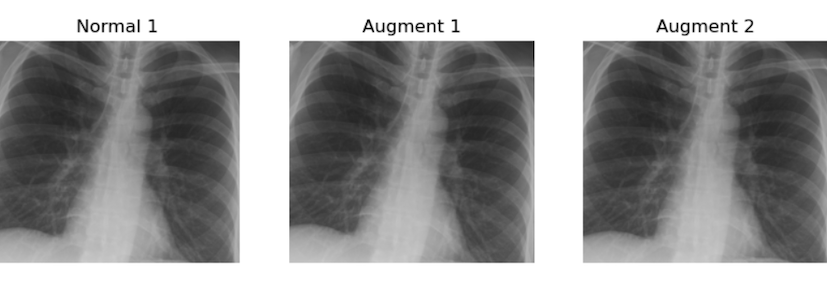
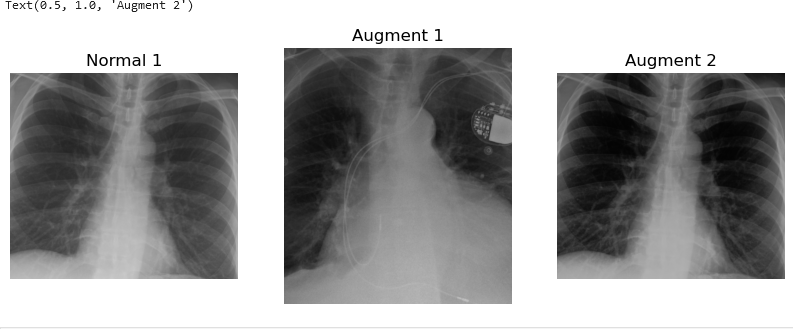
update les

diff --git a/episodes/preparing_for_machine_learning.md b/episodes/preparing_for_machine_learning.md
@@ -166,9 +166,9 @@ All of the following may pose potential problems:
 
 ## Challenge: Prepare the images for classic supervised ML
 
-Use `skimage.transform.rotate` to create two realistic augmented images (name them `new_pic1` and `new_pic2`) from the given 'normal' image stored in the `image_cxr1` variable.
+Use `skimage.transform.rotate` to create two realistic augmented images from the given 'normal' image stored in the  variables.
 
-Then, in a single block of code, apply what you perceive as the two most critical preprocessing algorithms to prepare these images for classic supervised ML.
+Then, in a single block of code, apply what you perceive as the most critical preprocessing algorithms to prepare these images for classic supervised ML.
 
 Hint: Carefully examine the shape of the cardiomegaly image from multiple perspectives. Consider the impact of harsh lines on ML performance.
 
@@ -193,9 +193,10 @@ cut sides: -208.5
 
 ```python
 cut_sides = abs(round((image_cxr_cmegaly.shape[1] - image_cxr1.shape[1])/2))
-list_images = [image_cxr1, new_pic1, new_pic2]
+list_images = [image_cxr1, image_cxr_cmegaly, image_cxr2]
 better_for_ml_list = []
 for image in list_images:
+    image = rotate(image,2)
     image = image[cut_top_bottom:-cut_top_bottom, cut_sides: -cut_sides]
     better_for_ml_list.append(image)
 
@@ -227,6 +228,7 @@ plt.imshow(better_for_ml_list[2])
 plt.axis('off')
 plt.title("Augment 2")
 
+
 ```
 
 ![](fig/augmented_cxr_rotate.png){alt='augmented chest x-ray'}
@@ -254,7 +256,8 @@ io.show()
 ![](fig/shear_cxr.png){alt='augmented by shear chest x-ray'}
 
 
-And finally, let's show a wave over a mesh:
+And finally, let's show a "wave over a mesh". Here we will create a grid, or "mesh" over our image, and 
+illustrate it in our plot with dots, then we will transform the image in the shape of wave through a warp funtion :
 
 ```python
 rows, cols = image_affine_tf.shape[0], image_affine_tf.shape[1]
@@ -410,7 +413,7 @@ Below are three examples from the field of neuroimaging:
 | Notes     | no standard release yet  | versioned but not released   | not release, not versioned |
 | Original website     | [GitHub](https://github.com/Jfortin1/ComBatHarmonization) | [GitHub](https://github.com/lianruizuo/haca3) | [GitHub](https://github.com/Alxaline/ComScan)    | 
 | Early publication |[doi: 10.1016/j.neuroimage.2017.08.047](https://doi.org/10.1016/j.neuroimage.2017.08.047)| [doi:10.1016/j.compmedimag.2023.102285](https://doi.org/10.1016/j.compmedimag.2023.102285)  |[doi: 10.1038/s41598-022-16609-1 ](https://doi.org/10.1038/s41598-022-16609-1)|
-| Versioned website |  [versioned on cvasl](https://github.com/brainspinner/cvasl/tree/main/cvasl/vendor/neurocombat) | [versioned on GitHub](https://github.com/lianruizuo/haca3)| [versioned on cvasl](https://github.com/brainspinner/cvasl/tree/main/cvasl/vendor/autocombat)  
+| Versioned website |  [versioned on cvasl](https://github.com/brainspinner/cvasl/tree/main/cvasl/vendor/neurocombat) | [versioned on GitHub](https://github.com/lianruizuo/haca3)| [versioned on cvasl](https://github.com/brainspinner/cvasl/tree/main/cvasl/vendor/comscan)  
 
 There are numerous packages available for brain MRI alone, not to mention those for imaging the rest of the body. We have selected these three examples to highlight some of the common issues and pitfalls associated with such packages.
 
